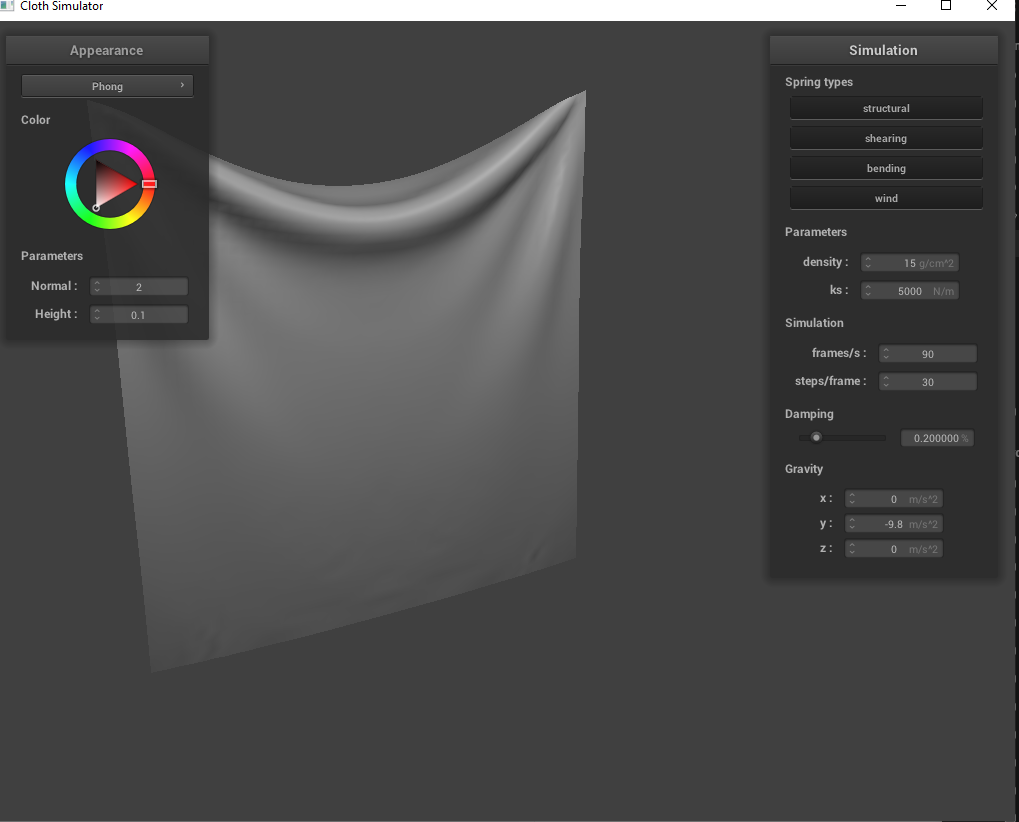
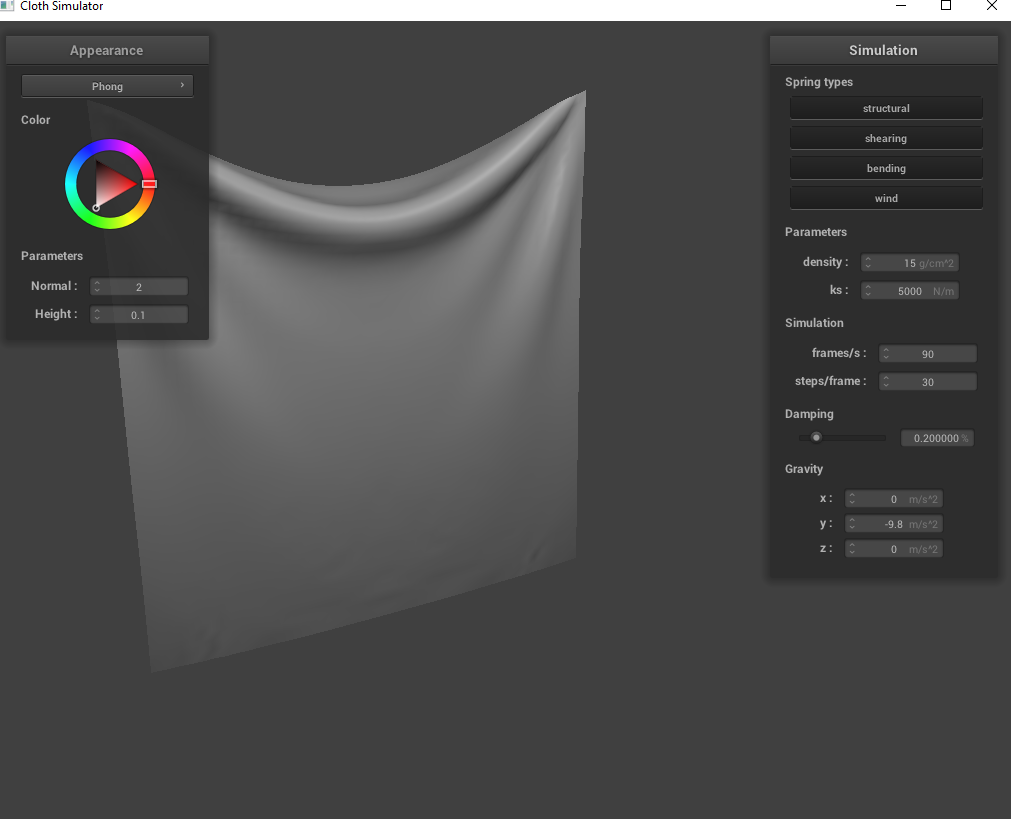
Update edited write-up images

diff --git a/index.html b/index.html
@@ -1,1 +1,1 @@
-<!doctype html><html lang="en"><head><meta charset="utf-8"><meta name="viewport" content="width=device-width,initial-scale=1"><title>CS 184 Homework 4 - Diego Vargas de Souza</title><style>body{font-family:Inter,Arial,sans-serif;color:#171717;line-height:1.6;margin:0;background:#fff}.container{max-width:1050px;margin:auto;padding:60px 6%}h1{text-align:center;font-size:30px;line-height:1.25}h2{margin-top:45px;font-size:23px}p{font-size:15px}a{color:#245d92}figure{margin:24px auto;text-align:center}img{max-width:90%;height:auto;display:block;margin:auto}figcaption{font-size:12px;line-height:1.4;margin-top:8px;color:#444}@media(max-width:650px){.container{padding:30px 5%}}@media print{figure{break-inside:avoid}}</style></head><body><main class="container"><h1>CS184/284A Fall 2026<br>Homework 4 Write-Up: Cloth Simulation</h1><p style="text-align:center">Names: Diego Vargas de Souza</p><p>Webpage: <a href="https://cal-cs184-student.github.io/hw4-diego-4-writeup/">https://cal-cs184-student.github.io/hw4-diego-4-writeup/</a></p><p>Link to GitHub repository: <a href="https://github.com/cal-cs184-student/hw4-diego-4">https://github.com/cal-cs184-student/hw4-diego-4</a></p><h2>Overview</h2><p>The simulator represents a cloth as point masses joined by springs, advances their positions over time, resolves collisions, and renders the result with programmable shaders.</p><h2>Part 1: Masses and springs</h2><p>The grid stores point masses in row-major order. Structural springs connect adjacent horizontal and vertical points, shearing springs connect diagonal neighbors, and bending springs connect points two grid steps apart. Selected grid points are pinned.</p><figure><img src="images/springs-no-shear.png" alt="Structural and bending springs without shearing"><figcaption>Structural and bending springs without shearing</figcaption></figure><figure><img src="images/springs-shear-only.png" alt="Shearing springs only"><figcaption>Shearing springs only</figcaption></figure><figure><img src="images/springs-all.png" alt="All spring types"><figcaption>All spring types</figcaption></figure><p>Without shearing, the visible springs run along grid rows and columns. Shearing alone forms diagonal crosses, while enabling all three types combines both patterns.</p><h2>Part 2: Numerical integration</h2><p>The simulation accumulates external and Hooke spring forces, uses damped Verlet integration for unpinned masses, and limits spring extension to 110% of rest length by moving the endpoints. Bending springs use one fifth of the base spring constant.</p><figure><img src="images/pinned4-rest.png" alt="Four-pinned cloth at rest with default settings"><figcaption>Four-pinned cloth at rest with default settings</figcaption></figure><figure><img src="images/pinned4-low-ks.png" alt="Lower stiffness, ks = 500"><figcaption>Lower stiffness, ks = 500</figcaption></figure><figure><img src="images/pinned4-high-density-moving.png" alt="Higher density during motion, 30 g/cm²"><figcaption>Higher density during motion, 30 g/cm²</figcaption></figure><figure><img src="images/pinned4-high-density.png" alt="Higher density after settling, 30 g/cm²"><figcaption>Higher density after settling, 30 g/cm²</figcaption></figure><figure><img src="images/pinned4-high-damping-moving.png" alt="Higher damping during motion, 0.816%"><figcaption>Higher damping during motion, 0.816%</figcaption></figure><figure><img src="images/pinned4-high-damping.png" alt="Higher damping in a later state, 0.816%"><figcaption>Higher damping in a later state, 0.816%</figcaption></figure><p>Lower spring stiffness permits more deformation under load; higher stiffness resists it. Increasing density increases the gravitational force and inertia of each mass, producing more sag and changing the motion. In the higher-density trial, visible transient wrinkles later smoothed out. Damping reduces the velocity term at each step: more damping suppresses oscillations sooner, whereas less damping lets them persist longer. The damping images show two moments from the higher-damping run; they do not by themselves measure settling time against the default. The sphere comparison in Part 3 also shows the effect of ks = 500, 5000, and 50000.</p><h2>Part 3: Collisions with objects</h2><p>For a point inside a sphere, the sphere collision handler finds the radial surface point and applies a friction-scaled correction from the previous position. For a plane, it detects when the point crosses sides and projects it to the original side with a small offset, applying friction to the correction.</p><figure><img src="images/sphere-ks500.png" alt="Cloth draped over the sphere at ks = 500"><figcaption>Cloth draped over the sphere at ks = 500</figcaption></figure><figure><img src="images/sphere-ks5000.png" alt="Cloth draped over the sphere at ks = 5000"><figcaption>Cloth draped over the sphere at ks = 5000</figcaption></figure><figure><img src="images/sphere-ks50000.png" alt="Cloth draped over the sphere at ks = 50000"><figcaption>Cloth draped over the sphere at ks = 50000</figcaption></figure><p>At ks = 500, the cloth forms narrower, more irregular folds than at ks = 5000, where the folds appear broader and more regular. At ks = 50000, the drape holds a wider shape with fewer, broader folds.</p><figure><img src="images/plane-rest.png" alt="Cloth on the plane"><figcaption>Cloth on the plane</figcaption></figure><h2>Part 4: Self-collisions</h2><p>The simulation places masses in spatial buckets and checks candidates in its own bucket and neighboring buckets. When two masses are closer than twice the cloth thickness, it accumulates a separating displacement and applies the average, scaled by the number of simulation steps. Hash collisions are filtered by checking actual distances.</p><figure><img src="images/self-early.png" alt="Early self-collision"><figcaption>Early self-collision</figcaption></figure><figure><img src="images/self-folding.png" alt="Cloth folding onto itself"><figcaption>Cloth folding onto itself</figcaption></figure><figure><img src="images/self-late.png" alt="Cloth after settling"><figcaption>Cloth after settling</figcaption></figure><p>The cloth first bunches at the ground, then forms several stacked folds that spread and flatten over time.</p><figure><img src="images/self-density5.png" alt="Self-collision with density 5 g/cm² and ks 5000"><figcaption>Self-collision with density 5 g/cm² and ks 5000</figcaption></figure><figure><img src="images/self-ks500.png" alt="Self-collision with density 15 g/cm² and ks 500"><figcaption>Self-collision with density 15 g/cm² and ks 500</figcaption></figure><p>At the lower density, the captured cloth has a broad, smooth fold compared with the default-density sequence. At the lower spring constant, the captured folds are finer and more irregular. These images show particular moments in a moving simulation, so differences in timing may also affect their appearance.</p><h2>Part 5: Shaders</h2><p>A vertex shader transforms vertices and passes their properties to the rasterizer; a fragment shader computes color from the interpolated properties. Blinn–Phong combines ambient light, diffuse illumination based on the surface-to-light angle, and a view-dependent specular highlight based on the halfway vector. The texture shader samples the image using interpolated UV coordinates. Bump mapping changes the shading normal from height-map gradients; displacement mapping additionally moves vertices, so its silhouette depends on mesh resolution. The mirror shader reflects the view ray and samples a cubemap.</p><figure><img src="images/ambient-only.png" alt="Ambient contribution only"><figcaption>Ambient contribution only</figcaption></figure><figure><img src="images/diffuse-only.png" alt="Diffuse contribution only"><figcaption>Diffuse contribution only</figcaption></figure><figure><img src="images/specular-only.png" alt="Specular contribution only"><figcaption>Specular contribution only</figcaption></figure><figure><img src="images/phong-pinned2.png" alt="Combined Blinn–Phong shading on the two-pinned cloth"><figcaption>Combined Blinn–Phong shading on the two-pinned cloth</figcaption></figure><p>The ambient component is faint and uniform; diffuse lighting reveals the orientation of the folds; the specular term isolates the narrow highlights. The combined view adds all three.</p><figure><img src="images/mirror-cloth.png" alt="Mirror shader on cloth"><figcaption>Mirror shader on cloth</figcaption></figure><figure><img src="images/mirror-sphere.png" alt="Mirror shader on sphere"><figcaption>Mirror shader on sphere</figcaption></figure><figure><img src="images/custom-texture.png" alt="Custom checker-and-dot texture on cloth and sphere"><figcaption>Custom checker-and-dot texture on cloth and sphere</figcaption></figure><figure><img src="images/bump-cloth-sphere.png" alt="Bump mapping on cloth and sphere: normal 2, height 1"><figcaption>Bump mapping on cloth and sphere: normal 2, height 1</figcaption></figure><figure><img src="images/displacement-sphere.png" alt="Displacement mapping with the same height map: normal 100, height 0.02"><figcaption>Displacement mapping with the same height map: normal 100, height 0.02</figcaption></figure><p>Both mappings use the non-default texture_3 height map. Bump mapping changes the lighting without changing the outline; displacement also shifts vertices, visibly changing the cloth edge. Their scales differ to make each effect visible.</p><figure><img src="images/bump-sphere-16.png" alt="Bump mapping on the 16-by-16 sphere"><figcaption>Bump mapping on the 16-by-16 sphere</figcaption></figure><figure><img src="images/displacement-sphere-16.png" alt="Displacement mapping on the 16-by-16 sphere"><figcaption>Displacement mapping on the 16-by-16 sphere</figcaption></figure><figure><img src="images/bump-sphere-128.png" alt="Bump mapping on the 128-by-128 sphere"><figcaption>Bump mapping on the 128-by-128 sphere</figcaption></figure><figure><img src="images/displacement-sphere-128.png" alt="Displacement mapping on the 128-by-128 sphere"><figcaption>Displacement mapping on the 128-by-128 sphere</figcaption></figure><p>The coarse sphere has a more faceted outline. The fine sphere has a smoother outline and more vertices available for displacement. Bump mapping changes shading at both resolutions but cannot change the silhouette.</p><h2>Extra credit: Wind</h2><p>A toggle enables a spatially varying wind. Each triangle receives pressure proportional to its area and the signed square of the wind component along its normal, divided among its three point masses. The field varies with position, so different parts of the cloth receive different forces.</p><figure><img src="images/wind-off.png" alt="Cloth with wind off"><figcaption>Cloth with wind off</figcaption></figure><figure><img src="images/wind-on.png" alt="Cloth with wind on"><figcaption>Cloth with wind on</figcaption></figure><p>Both views use density 15 g/cm², ks = 5000, and damping 0.2%. With wind enabled, additional rippling is visible near the lower edge; the change is subtle from this angle.</p><h2>Extra credit: Custom shader</h2><p>The custom material combines a procedural woven pattern, Blinn–Phong lighting, and a subtle view-dependent environment reflection. The pattern is generated from the surface UV coordinates; it does not require a separate texture image.</p><figure><img src="images/custom-weave.png" alt="Procedural woven shader on cloth"><figcaption>Procedural woven shader on cloth</figcaption></figure></main></body></html>
+<!doctype html><html lang="en"><head><meta charset="utf-8"><meta name="viewport" content="width=device-width,initial-scale=1"><title>CS 184 Homework 4 - Diego Vargas de Souza</title><style>body{font-family:Inter,Arial,sans-serif;color:#171717;line-height:1.6;margin:0;background:#fff}.container{max-width:1050px;margin:auto;padding:60px 6%}h1{text-align:center;font-size:30px;line-height:1.25}h2{margin-top:45px;font-size:23px}p{font-size:15px}a{color:#245d92}figure{margin:24px auto;text-align:center}img{max-width:90%;height:auto;display:block;margin:auto}figcaption{font-size:12px;line-height:1.4;margin-top:8px;color:#444}@media(max-width:650px){.container{padding:30px 5%}}@media print{figure{break-inside:avoid}}</style></head><body><main class="container"><h1>CS184/284A Fall 2026<br>Homework 4 Write-Up: Cloth Simulation</h1><p style="text-align:center">Names: Diego Vargas de Souza</p><p>Webpage: <a href="https://cal-cs184-student.github.io/hw4-diego-4-writeup/">https://cal-cs184-student.github.io/hw4-diego-4-writeup/</a></p><p>Link to GitHub repository: <a href="https://github.com/cal-cs184-student/hw4-diego-4">https://github.com/cal-cs184-student/hw4-diego-4</a></p><h2>Overview</h2><p>The simulator represents a cloth as point masses joined by springs, advances their positions over time, resolves collisions, and renders the result with programmable shaders.</p><h2>Part 1: Masses and springs</h2><p>The grid stores point masses in row-major order. Structural springs connect adjacent horizontal and vertical points, shearing springs connect diagonal neighbors, and bending springs connect points two grid steps apart. Selected grid points are pinned.</p><figure><img src="images/springs-no-shear.png" alt="Structural and bending springs without shearing"><figcaption>Structural and bending springs without shearing</figcaption></figure><figure><img src="images/springs-shear-only.png" alt="Shearing springs only"><figcaption>Shearing springs only</figcaption></figure><figure><img src="images/springs-all.png" alt="All spring types"><figcaption>All spring types</figcaption></figure><p>Without shearing, the visible springs run along grid rows and columns. Shearing alone forms diagonal crosses, while enabling all three types combines both patterns.</p><h2>Part 2: Numerical integration</h2><p>The simulation accumulates external and Hooke spring forces, uses damped Verlet integration for unpinned masses, and limits spring extension to 110% of rest length by moving the endpoints. Bending springs use one fifth of the base spring constant.</p><figure><img src="images/pinned4-rest.png" alt="Four-pinned cloth at rest with default settings"><figcaption>Four-pinned cloth at rest with default settings</figcaption></figure><figure><img src="images/pinned4-low-ks.png" alt="Lower stiffness, ks = 500"><figcaption>Lower stiffness, ks = 500</figcaption></figure><figure><img src="images/pinned4-high-density-moving.png" alt="Higher density during motion, 30 g/cm²"><figcaption>Higher density during motion, 30 g/cm²</figcaption></figure><figure><img src="images/pinned4-high-density.png" alt="Higher density after settling, 30 g/cm²"><figcaption>Higher density after settling, 30 g/cm²</figcaption></figure><figure><img src="images/pinned4-high-damping-moving.png" alt="Higher damping during motion, 0.816%"><figcaption>Higher damping during motion, 0.816%</figcaption></figure><figure><img src="images/pinned4-high-damping.png" alt="Higher damping in a later state, 0.816%"><figcaption>Higher damping in a later state, 0.816%</figcaption></figure><p>Lower spring stiffness permits more deformation under load; higher stiffness resists it. Increasing density increases the gravitational force and inertia of each mass, producing more sag and changing the motion. In the higher-density trial, visible transient wrinkles later smoothed out. Damping reduces the velocity term at each step: more damping suppresses oscillations sooner, whereas less damping lets them persist longer. The damping images show two moments from the higher-damping run; they do not by themselves measure settling time against the default. The sphere comparison in Part 3 also shows the effect of ks = 500, 5000, and 50000.</p><h2>Part 3: Collisions with objects</h2><p>For a point inside a sphere, the sphere collision handler finds the radial surface point and applies a friction-scaled correction from the previous position. For a plane, it detects when the point crosses sides and projects it to the original side with a small offset, applying friction to the correction.</p><figure><img src="images/sphere-ks500.png?v=455ab1a028b7" alt="Cloth draped over the sphere at ks = 500"><figcaption>Cloth draped over the sphere at ks = 500</figcaption></figure><figure><img src="images/sphere-ks5000.png" alt="Cloth draped over the sphere at ks = 5000"><figcaption>Cloth draped over the sphere at ks = 5000</figcaption></figure><figure><img src="images/sphere-ks50000.png" alt="Cloth draped over the sphere at ks = 50000"><figcaption>Cloth draped over the sphere at ks = 50000</figcaption></figure><p>At ks = 500, the cloth forms narrower, more irregular folds than at ks = 5000, where the folds appear broader and more regular. At ks = 50000, the drape holds a wider shape with fewer, broader folds.</p><figure><img src="images/plane-rest.png" alt="Cloth on the plane"><figcaption>Cloth on the plane</figcaption></figure><h2>Part 4: Self-collisions</h2><p>The simulation places masses in spatial buckets and checks candidates in its own bucket and neighboring buckets. When two masses are closer than twice the cloth thickness, it accumulates a separating displacement and applies the average, scaled by the number of simulation steps. Hash collisions are filtered by checking actual distances.</p><figure><img src="images/self-early.png" alt="Early self-collision"><figcaption>Early self-collision</figcaption></figure><figure><img src="images/self-folding.png" alt="Cloth folding onto itself"><figcaption>Cloth folding onto itself</figcaption></figure><figure><img src="images/self-late.png" alt="Cloth after settling"><figcaption>Cloth after settling</figcaption></figure><p>The cloth first bunches at the ground, then forms several stacked folds that spread and flatten over time.</p><figure><img src="images/self-density5.png" alt="Self-collision with density 5 g/cm² and ks 5000"><figcaption>Self-collision with density 5 g/cm² and ks 5000</figcaption></figure><figure><img src="images/self-ks500.png" alt="Self-collision with density 15 g/cm² and ks 500"><figcaption>Self-collision with density 15 g/cm² and ks 500</figcaption></figure><p>At the lower density, the captured cloth has a broad, smooth fold compared with the default-density sequence. At the lower spring constant, the captured folds are finer and more irregular. These images show particular moments in a moving simulation, so differences in timing may also affect their appearance.</p><h2>Part 5: Shaders</h2><p>A vertex shader transforms vertices and passes their properties to the rasterizer; a fragment shader computes color from the interpolated properties. Blinn–Phong combines ambient light, diffuse illumination based on the surface-to-light angle, and a view-dependent specular highlight based on the halfway vector. The texture shader samples the image using interpolated UV coordinates. Bump mapping changes the shading normal from height-map gradients; displacement mapping additionally moves vertices, so its silhouette depends on mesh resolution. The mirror shader reflects the view ray and samples a cubemap.</p><figure><img src="images/ambient-only.png" alt="Ambient contribution only"><figcaption>Ambient contribution only</figcaption></figure><figure><img src="images/diffuse-only.png" alt="Diffuse contribution only"><figcaption>Diffuse contribution only</figcaption></figure><figure><img src="images/specular-only.png" alt="Specular contribution only"><figcaption>Specular contribution only</figcaption></figure><figure><img src="images/phong-pinned2.png" alt="Combined Blinn–Phong shading on the two-pinned cloth"><figcaption>Combined Blinn–Phong shading on the two-pinned cloth</figcaption></figure><p>The ambient component is faint and uniform; diffuse lighting reveals the orientation of the folds; the specular term isolates the narrow highlights. The combined view adds all three.</p><figure><img src="images/mirror-cloth.png" alt="Mirror shader on cloth"><figcaption>Mirror shader on cloth</figcaption></figure><figure><img src="images/mirror-sphere.png" alt="Mirror shader on sphere"><figcaption>Mirror shader on sphere</figcaption></figure><figure><img src="images/custom-texture.png" alt="Custom checker-and-dot texture on cloth and sphere"><figcaption>Custom checker-and-dot texture on cloth and sphere</figcaption></figure><figure><img src="images/bump-cloth-sphere.png" alt="Bump mapping on cloth and sphere: normal 2, height 1"><figcaption>Bump mapping on cloth and sphere: normal 2, height 1</figcaption></figure><figure><img src="images/displacement-sphere.png" alt="Displacement mapping with the same height map: normal 100, height 0.02"><figcaption>Displacement mapping with the same height map: normal 100, height 0.02</figcaption></figure><p>Both mappings use the non-default texture_3 height map. Bump mapping changes the lighting without changing the outline; displacement also shifts vertices, visibly changing the cloth edge. Their scales differ to make each effect visible.</p><figure><img src="images/bump-sphere-16.png" alt="Bump mapping on the 16-by-16 sphere"><figcaption>Bump mapping on the 16-by-16 sphere</figcaption></figure><figure><img src="images/displacement-sphere-16.png" alt="Displacement mapping on the 16-by-16 sphere"><figcaption>Displacement mapping on the 16-by-16 sphere</figcaption></figure><figure><img src="images/bump-sphere-128.png" alt="Bump mapping on the 128-by-128 sphere"><figcaption>Bump mapping on the 128-by-128 sphere</figcaption></figure><figure><img src="images/displacement-sphere-128.png" alt="Displacement mapping on the 128-by-128 sphere"><figcaption>Displacement mapping on the 128-by-128 sphere</figcaption></figure><p>The coarse sphere has a more faceted outline. The fine sphere has a smoother outline and more vertices available for displacement. Bump mapping changes shading at both resolutions but cannot change the silhouette.</p><h2>Extra credit: Wind</h2><p>A toggle enables a spatially varying wind. Each triangle receives pressure proportional to its area and the signed square of the wind component along its normal, divided among its three point masses. The field varies with position, so different parts of the cloth receive different forces.</p><figure><img src="images/wind-off.png" alt="Cloth with wind off"><figcaption>Cloth with wind off</figcaption></figure><figure><img src="images/wind-on.png?v=df0060666a96" alt="Cloth with wind on"><figcaption>Cloth with wind on</figcaption></figure><p>Both views use density 15 g/cm², ks = 5000, and damping 0.2%. With wind enabled, additional rippling is visible near the lower edge; the change is subtle from this angle.</p><h2>Extra credit: Custom shader</h2><p>The custom material combines a procedural woven pattern, Blinn–Phong lighting, and a subtle view-dependent environment reflection. The pattern is generated from the surface UV coordinates; it does not require a separate texture image.</p><figure><img src="images/custom-weave.png" alt="Procedural woven shader on cloth"><figcaption>Procedural woven shader on cloth</figcaption></figure></main></body></html>
